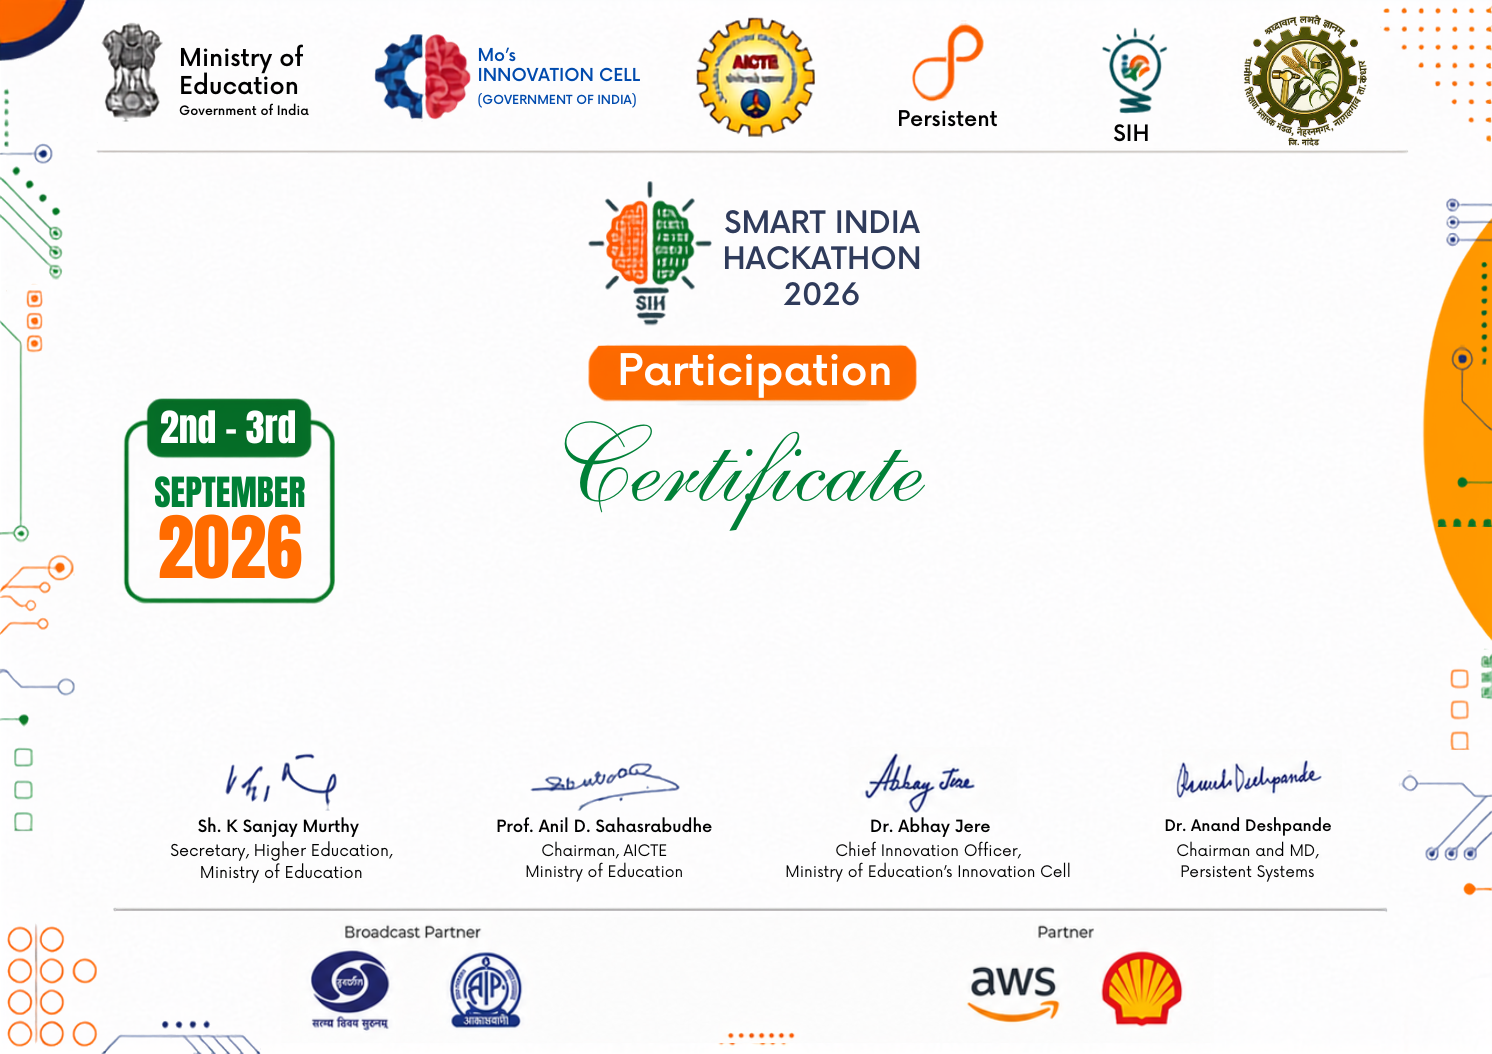
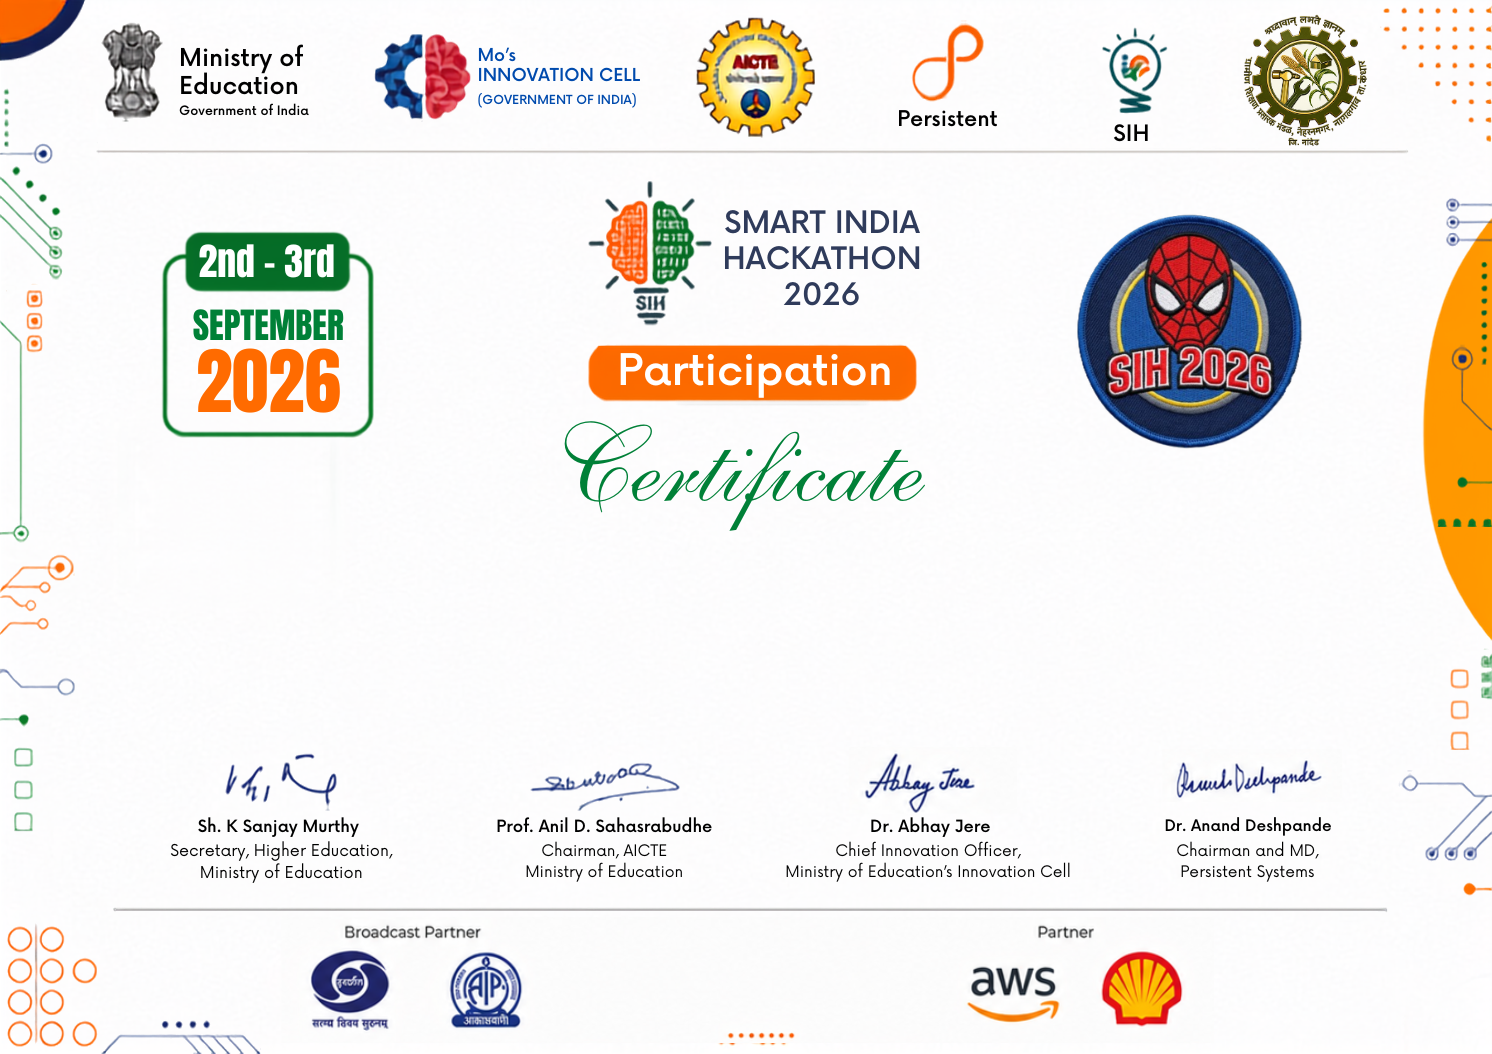
chore(certificates): Update base template to final 2nd - 3rd (2).png with Spider-Man SIH emblem

Changed region(s): [[0.0617, 0.2125, 0.2775, 0.5769], [0.7091, 0.1822, 0.8941, 0.425]]

diff --git a/src/admin/AdminCertificates.jsx b/src/admin/AdminCertificates.jsx
@@ -675,11 +675,12 @@ export function AdminCertificates() {
             >
               {/* Official Certificate Background Image */}
               <img
-                src="/sih_official_certificate_template.png?v=2"
+                src="/sih_official_certificate_template.png?v=3"
                 alt="SIH Official Certificate Template"
                 className="absolute inset-0 w-full h-full object-fill pointer-events-none"
                 crossOrigin="anonymous"
               />
+
 
               {/* Exact Dynamic Text Overlay safely placed in the white gap (Y: 52% to 70%) */}
               <div 
